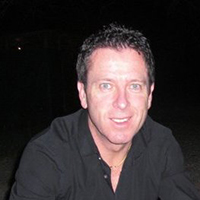
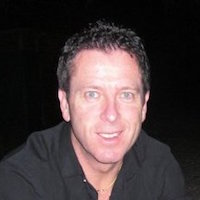
Final copy changes for launch
Final copy changes to fully announce the awards, their sponsors and
entry deadline.

Added a judge photo, and changed another.

diff --git a/index.html b/index.html
@@ -30,7 +30,7 @@
     <div class="container">
         <a class="logo" href="/"><img src="img/logo.png" alt="Nott Tuesday"></a>
         <h1>Tech Startup of the Year Awards 2015</h1>
-        <p>This month Nott Tuesday celebrates Nottingham's newest generation of tech startups from the past year. They compete for a cash prize of up to £2,000 and face-to-face sit-downs with the hottest startup programs around.</p>
+        <p>Each November Nott Tuesday celebrates Nottingham's newest generation of tech startups from the past year. They compete for a cash prize of up to £2,000 and face-to-face sit-downs with the hottest startup programs around.</p>
     </div>
 </header>
 
@@ -76,7 +76,7 @@
                 <figure class="award-sponsor__image">
                     <a href="http://www.g2innovation.co.uk" target="_blank"><img src="img/awards-2015/logo-g2innovation.png" alt="g2"/></a>
                 </figure>
-                <h2>Sponsored by <a href="http://www.g2innovation.co.uk" target="_blank">G2</a></h2>
+                <h2>This award is brought to you by <a href="http://www.g2innovation.co.uk" target="_blank">G2</a></h2>
                 <p><a href="http://www.g2innovation.co.uk" target="_blank">G2 Innovation</a> is a design innovation consultancy thats supports businesses by providing the tools and resources that take the pain out of developing new ideas.</p>
             </div>
         </article>
@@ -85,7 +85,7 @@
     <section class="background__green">
         <div class="container">
             <div class="award-entry">
-                <h2 class="award-entry__title">Entries are now open!</h2>
+                <h2 class="award-entry__title">Entries close 9th November!</h2>
                 <p class="award-entry__desc">If you would like to enter your startup for either of our awards please send an email to the address below stating your name and startup and we'll walk you through our process.</p>
                 <p class="award-entry__email"><a href="mailto:nick@notttuesday.com">nick@notttuesday.com</a></p>
             </div>
@@ -102,7 +102,7 @@
                 <figure class="award-sponsor__image">
                     <a href="http://distinction.co.uk" target="_blank"><img src="img/awards-2015/logo-distinction.jpg" alt="Distinction"/></a>
                 </figure>
-                <h2>Sponsored by <a href="http://distinction.co.uk" target="_blank">Distinction</a></h2>
+                <h2>This award is brought to you by <a href="http://distinction.co.uk" target="_blank">Distinction</a></h2>
                 <p><a href="http://distinction.co.uk" target="_blank">Distinction</a> is an integrated digital agency that helps organisations get the most from digital, whether that's through defining effective digital strategies, building beautiful online experiences, or creating persuasive marketing campaigns.</p>
             </div>
         </article>
@@ -113,13 +113,13 @@
             <div class="refreshments cf">
                 <div class="refreshments__item text--center">
                     <a href="http://www.wearejh.com/" target="_blank"><img src="img/logo-jh.png" alt="JH"/></a>
-                    <h2>Drinks by <a href="http://www.wearejh.com/" target="_blank">JH</a></h2>
-                    <p><a href="http://www.wearejh.com/" target="_blank">JH</a> is a web agency specialising in ecommerce working with exciting clients on challenging projects. On the night they will be providing two drinks per person in attendence as well as some special cocktails behind the bar.</p>
+                    <h2>Free drinks sponsored by <a href="http://www.wearejh.com/" target="_blank">JH</a></h2>
+                    <p><a href="http://www.wearejh.com/" target="_blank">JH</a> is a web agency specialising in ecommerce working with exciting clients on challenging projects. During the awards they will be providing two drinks per person in attendence as well as some cocktails behind the bar.</p>
                 </div>
                 <div class="refreshments__item text--center">
                     <a href="https://deliveroo.co.uk" target="_blank"><img src="img/awards-2015/logo-deliveroo.png" alt="Deliveroo"/></a>
-                    <h2>Food by <a href="https://deliveroo.co.uk" target="_blank">Deliveroo</a></h2>
-                    <p><a href="https://deliveroo.co.uk" target="_blank">Deliveroo</a> lets you order amazing food from the UK's best loved local restaurants who otherwise may not offer delivery. On the night they will provide food from top restaurants around Nottingham for us all to eat.</p>
+                    <h2>Free food sponsored by <a href="https://deliveroo.co.uk" target="_blank">Deliveroo</a></h2>
+                    <p><a href="https://deliveroo.co.uk" target="_blank">Deliveroo</a> lets you order amazing food from the UK's best loved local restaurants who otherwise may not offer delivery. During the awards they will provide food from top restaurants around Nottingham for all attendees.</p>
                 </div>
             </div>
         </div>
@@ -132,10 +132,10 @@
             <ul class="judge-list">
                 <li class="judge">
                     <a href="https://uk.linkedin.com/in/vimlaappadoo" target="_blank">
-                        <img class="judge__photo" src="img/placeholder.jpg" alt="Vimla Appadoo">
+                        <img class="judge__photo" src="img/awards-2015/judge-appadoo.jpg" alt="Vimla Appadoo">
                     </a>
                     <a class="judge__name" href="https://uk.linkedin.com/in/vimlaappadoo" target="_blank">Vimla Appadoo</a>
-                    <span class="judge__role">Program Manager at Dotforge</span>
+                    <span class="judge__role">Program Manager at dotforge</span>
                 </li>
                 <li class="judge">
                     <a href="https://uk.linkedin.com/pub/lewis-stringer/20/709/b24" target="_blank">
@@ -160,7 +160,7 @@
                 </li>
                 <li class="judge">
                     <!--<a href="#" target="_blank">-->
-                        <img class="judge__photo" src="img/placeholder.jpg" alt="tbc">
+                        <img class="judge__photo" src="img/placeholder.jpg" alt="TBA">
                     <!--</a>-->
                     <a class="judge__name">To be announced</a>
                     <span class="judge__role"> </span>
@@ -196,21 +196,15 @@
 
         <section class="sponsors">
             <header>
-                <h2>Gold Sponsors</h2>
-                <p class="lede">Providing services-in-kind to help the award winning businesses of each category.</p>
+                <h2>Prize pool sponsors</h2>
+                <p class="lede">Each sponsor has provided £500 toward the prize for the winner of the New Startup of the Year award.</p>
             </header>
             <ul class="sponsor-list">
                 <li class="sponsor">
-                    <a href="http://www.skeletonproductions.com/" target="_blank">
-                        <img class="sponsor__logo" src="../img/awards-2015/logo-skeletonproductions.png" alt="Skeleton Productions">
+                    <a href="http://www.first-enterprise.co.uk/" target="_blank">
+                        <img class="sponsor__logo" src="img/awards-2015/logo-firstenterprise.png" alt="First Enterprise">
                     </a>
-                    <a href="http://www.skeletonproductions.com/" target="_blank">Skeleton Productions</a> produces engaging creative videos for UK businesses and brands. They have donated an animation worth &pound;4,000 for one of our winners.
-                </li>
-                <li class="sponsor">
-                    <a href="http://www.securityaware.biz/" target="_blank">
-                        <img class="sponsor__logo" src="../img/awards-2015/logo-securityaware.png" alt="Security Aware">
-                    </a>
-                    <a href="http://www.securityaware.biz/" target="_blank">Security Aware</a> is a data security and compliance specialist, helping businesses keep information safe through monitoring, testing and training.
+                    <a href="http://www.first-enterprise.co.uk/" target="_blank">First Enterprise</a> is a leading business support organisation which supports the needs of pre-start and existing business owners in Nottingham and the East Midlands.
                 </li>
             </ul>
         </section><!-- end .sponsors -->
@@ -219,24 +213,31 @@
 
         <section class="sponsors">
             <header>
-                <h2>Silver Sponsors</h2>
-                <p class="lede">Our ongoing sponsors help us get great speakers in and provide drinks at our monthly events.</p>
+                <h2>Service sponsors</h2>
+                <p class="lede">Providing services-in-kind to help each of the award winners.</p>
             </header>
             <ul class="sponsor-list">
-                <li class="sponsor">
-                    <a href="http://www.first-enterprise.co.uk/" target="_blank">
-                        <img class="sponsor__logo" src="../img/awards-2015/logo-firstenterprise.png" alt="First Enterprise">
+                <!-- <li class="sponsor">
+                    <a href="http://www.skeletonproductions.com/" target="_blank">
+                        <img class="sponsor__logo" src="../img/awards-2015/logo-skeletonproductions.png" alt="Skeleton Productions">
                     </a>
-                    <a href="http://www.first-enterprise.co.uk/" target="_blank">First Enterprise</a> is a leading business support organisation which supports the needs of pre-start and existing business owners in Nottingham and the East Midlands.
+                    <a href="http://www.skeletonproductions.com/" target="_blank">Skeleton Productions</a> produces engaging creative videos for UK businesses and brands. They have donated an animation worth &pound;4,000 for one of our winners.
+                </li> -->
+                <li class="sponsor">
+                    <a href="http://www.securityaware.biz/" target="_blank">
+                        <img class="sponsor__logo" src="img/awards-2015/logo-securityaware.png" alt="Security Aware">
+                    </a>
+                    <a href="http://www.securityaware.biz/" target="_blank">Security Aware</a> is a data security and compliance specialist, helping businesses keep information safe through monitoring, testing and training.
                 </li>
             </ul>
         </section><!-- end .sponsors -->
+
     </div>
 
     <section class="background__green">
         <div class="container">
             <div class="award-entry">
-                <h2 class="award-entry__title">Entries are now open!</h2>
+                <h2 class="award-entry__title">Entries close 9th November!</h2>
                 <p class="award-entry__desc">If you would like to enter your startup for either of our awards please send an email to the address below stating your name and startup and we'll walk you through our process.</p>
                 <p class="award-entry__email"><a href="mailto:nick@notttuesday.com">nick@notttuesday.com</a></p>
             </div>
